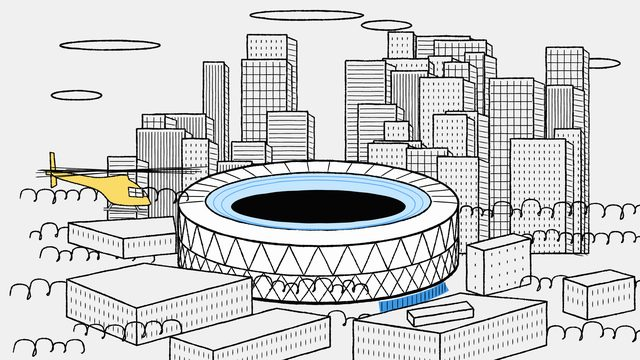
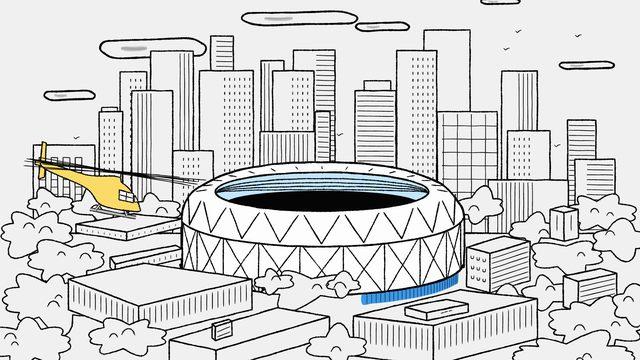
wip: 문서·썸네일, 경기장 아래 띠의 칸 수

diff --git a/index.html b/index.html
@@ -19,7 +19,7 @@
 </style>
 <h1>모션그래픽 레퍼런스 장면</h1>
 <p class="lead">장면 38개 · 카드에 마우스를 올리면 재생 · 클릭하면 재생 막대와 함께 열림 (스페이스 = 재생/정지, ←/→ = 한 프레임, 주소에 ?t=3.2 = 그 시각에서 열기)</p>
-<h2>IBM</h2><h3>한 화면 스팟(문구 제외) <code>spot</code></h3><div class="grid"><a class="card" href="IBM/scenes/spot/folder-meets-document.html"><div class="thumb"><img src="IBM/thumbs/spot-folder-meets-document.jpg" alt="" loading="lazy"></div><b>folder-meets-document</b><span>1:30.1–1:41.7 · 11.625s</span><p>미러볼 아래 다리 달린 파란 폴더가 풍선을 차자 화면이 옆으로 밀려 서류가 드러나고, 둘이 따로 춤추다 다가가 손을 잡으면 하트 풍선이 떠오른다.</p></a><a class="card" href="IBM/scenes/spot/tandem-riders-join.html"><div class="thumb"><img src="IBM/thumbs/spot-tandem-riders-join.jpg" alt="" loading="lazy"></div><b>tandem-riders-join</b><span>1:45.1–1:56.8 · 11.75s</span><p>혼자 달리던 자전거에 한 명씩 끼어들 때마다 자전거가 한 칸씩 길어져 5인승 탠덤이 되고, 마지막에 다 같이 손을 놓고 몸을 젖히며 모자 하나가 뒤로 날아간다.</p></a><a class="card" href="IBM/scenes/spot/dark-eyes-reveal.html"><div class="thumb"><img src="IBM/thumbs/spot-dark-eyes-reveal.jpg" alt="" loading="lazy"></div><b>dark-eyes-reveal</b><span>2:00.1–2:11.7 · 11.625s</span><p>검은 화면에 초록 눈 한 쌍이 떠서 좌우를 살피고 깜빡이다가, 눈이 작아지는 순간 밝은 화면으로 컷하면 그 눈은 건물 창가에서 쌍안경을 든 사람이었다.</p></a></div><h3>선화 설정 샷 <code>establish</code></h3><div class="grid"><a class="card" href="IBM/scenes/establish/city-stadium-flyin.html"><div class="thumb"><img src="IBM/thumbs/establish-city-stadium-flyin.jpg" alt="" loading="lazy"></div><b>city-stadium-flyin</b><span>0:00.0–0:01.9 · 1.917s</span><p>화면을 가득 채운 흑백 선화 도시 한가운데 경기장이 있고, 노란 헬리콥터 한 대가 왼쪽에서 크게 휘어 들어와 경기장 옆에 멈춰 뜬다.</p></a></div><h3>클로즈업 인서트와 휩 전환 <code>insert</code></h3><div class="grid"><a class="card" href="IBM/scenes/insert/mesh-eyes-whip.html"><div class="thumb"><img src="IBM/thumbs/insert-mesh-eyes-whip.jpg" alt="" loading="lazy"></div><b>mesh-eyes-whip</b><span>0:06.5–0:08.8 · 2.292s</span><p>마스크 철망 너머로 화면을 가득 채운 두 눈이 노려보다 눈썹을 내리고 고개를 기울이며 다가오고, 스피드라인 휩이 화면을 쓸고 지나가면 맞은편 사람의 긴장한 눈이 나온다: 눈썹이 걱정스럽게 치켜 올라가고 땀방울 하나가 길게 자라며 흘러내린다.</p></a></div><h3>엔드카드(문구·로고 제외) <code>endcard</code></h3><div class="grid"><a class="card" href="IBM/scenes/endcard/flyby-dot-settle.html"><div class="thumb"><img src="IBM/thumbs/endcard-flyby-dot-settle.jpg" alt="" loading="lazy"></div><b>flyby-dot-settle</b><span>0:26.6–0:30.1 · 3.458s</span><p>하드 컷으로 들어온 파란 분필 스미어가 살짝 밀려와 멈추는 사이 큰 날벌레가 화면 앞을 가로질러 멀어지고, 작은 날벌레가 다시 날아와 화면 가운데 위쪽에 내려앉아 멈춘 뒤 빈 무대로 컷한다.</p></a></div><h3>창작: 설명 영상용 은유 <code>metaphor</code></h3><div class="grid"><a class="card" href="IBM/scenes/metaphor/bars-rise-climber.html"><div class="thumb"><img src="IBM/thumbs/metaphor-bars-rise-climber.jpg" alt="" loading="lazy"></div><b>bars-rise-climber</b><span>창작 · 7s</span><p>바닥에서 막대가 하나씩 솟을 때마다 작은 사람이 그 위로 뛰어올라 계단처럼 다섯 칸을 오르고, 가장 높은 파란 막대 꼭대기에 깃발을 꽂고 &quot;다 왔다!&quot; 한다.</p></a><a class="card" href="IBM/scenes/metaphor/bridge-plank-cross.html"><div class="thumb"><img src="IBM/thumbs/metaphor-bridge-plank-cross.jpg" alt="" loading="lazy"></div><b>bridge-plank-cross</b><span>창작 · 9s</span><p>걸어오던 사람이 끊긴 틈 앞에서 휘청 멈춰 아래를 내려다보는데, 건너편에서 널빤지를 멘 사람이 와서 틈에 걸쳐 놓자 그 위를 건너가 손을 마주치며 &quot;고마워!&quot; 한다.</p></a><a class="card" href="IBM/scenes/metaphor/dominoes-chain-stop.html"><div class="thumb"><img src="IBM/thumbs/metaphor-dominoes-chain-stop.jpg" alt="" loading="lazy"></div><b>dominoes-chain-stop</b><span>창작 · 5s</span><p>왼쪽에서 온 손가락이 첫 도미노를 튕기자 줄줄이 넘어가다가, 위에서 내려온 손가락이 파란 도미노 하나를 눌러 잡는 순간 연쇄가 거기서 멈춘다.</p></a><a class="card" href="IBM/scenes/metaphor/flashlight-finds-file.html"><div class="thumb"><img src="IBM/thumbs/metaphor-flashlight-finds-file.jpg" alt="" loading="lazy"></div><b>flashlight-finds-file</b><span>창작 · 7.5s</span><p>캄캄한 화면에 눈 한 쌍만 깜빡이고, 손전등 빛의 원뿔이 위아래로 훑다가 상자 뒤에 숨은 서류에 멈추면 화면이 한 번에 밝아지며 &quot;찾았다!&quot;, 서류가 다리로 걸어 나와 손을 흔든다.</p></a><a class="card" href="IBM/scenes/metaphor/parcels-board-conveyor.html"><div class="thumb"><img src="IBM/thumbs/metaphor-parcels-board-conveyor.jpg" alt="" loading="lazy"></div><b>parcels-board-conveyor</b><span>창작 · 8s</span><p>다리 달린 상자들이 줄지어 걸어와 하나씩 컨베이어에 뛰어오르면 다리를 접고 실려 가고, 검사대를 지날 때마다 도장이 내려와 초록 체크가 찍힌다.</p></a></div><h3>창작: 인물 동작 스터디 <code>acting</code></h3><div class="grid"><a class="card" href="IBM/scenes/acting/axe-windup-smear.html"><div class="thumb"><img src="IBM/thumbs/acting-axe-windup-smear.jpg" alt="" loading="lazy"></div><b>axe-windup-smear</b><span>창작 · 6s</span><p>도끼를 어깨에 걸친 사람이 머리 위로 크게 들어 올려 한참 버티다가, 스미어 한 장으로 내리쳐 통나무를 둘로 쪼개고 &quot;됐다.&quot; 하고 선다.</p></a><a class="card" href="IBM/scenes/acting/lift-heavy-box.html"><div class="thumb"><img src="IBM/thumbs/acting-lift-heavy-box.jpg" alt="" loading="lazy"></div><b>lift-heavy-box</b><span>창작 · 8s</span><p>큰 상자를 끌어안고 용을 써 보지만 꿈쩍도 않자 한숨 쉬고 다시 자세를 잡아, 한 번에 들어 올려 세 걸음 휘청이며 옮겨 놓고 &quot;휴.&quot; 한다.</p></a><a class="card" href="IBM/scenes/acting/walk-cycle-bag.html"><div class="thumb"><img src="IBM/thumbs/acting-walk-cycle-bag.jpg" alt="" loading="lazy"></div><b>walk-cycle-bag</b><span>창작 · 8s</span><p>헤드폰을 쓰고 긴 가방을 멘 사람이 컵을 들고 복도를 걸어가다 노란 문 앞에서 멈춰 한 모금 마신다.</p></a></div><h3>창작: 일상 개그 비네트 <code>vignette</code></h3><div class="grid"><a class="card" href="IBM/scenes/vignette/balloons-lift-chair.html"><div class="thumb"><img src="IBM/thumbs/vignette-balloons-lift-chair.jpg" alt="" loading="lazy"></div><b>balloons-lift-chair</b><span>창작 · 8s</span><p>고양이가 자는 의자에 화면 밖에서 뻗어 온 손이 풍선을 하나씩 묶고, 넷째 풍선에서 의자가 바닥을 떠나 떠오르자 고양이가 눈을 뜨고 &quot;야옹?&quot; 했다가 도로 잔다.</p></a><a class="card" href="IBM/scenes/vignette/trick-candle-relight.html"><div class="thumb"><img src="IBM/thumbs/vignette-trick-candle-relight.jpg" alt="" loading="lazy"></div><b>trick-candle-relight</b><span>창작 · 7s</span><p>아이가 케이크의 촛불을 훅 불어 끄고 뿌듯해하는데 불이 하나씩 도로 켜지고, 더 크게 숨을 들이켜 다시 불어 꺼도 이번엔 한꺼번에 켜져서 &quot;어?&quot; 한다.</p></a></div><h3>창작: 설정 샷·휩·인서트 변주 <code>variation</code></h3><div class="grid"><a class="card" href="IBM/scenes/variation/hall-whip-button.html"><div class="thumb"><img src="IBM/thumbs/variation-hall-whip-button.jpg" alt="" loading="lazy"></div><b>hall-whip-button</b><span>창작 · 6.5s</span><p>흑백 선화로 빽빽하게 그린 복도 안쪽으로 연보라 종이비행기 하나가 날아 들어가고, 스피드라인 휩이 화면을 쓸면 큰 버튼 앞에서 망설이던 손가락이 꾹 눌러 불이 켜진다.</p></a><a class="card" href="IBM/scenes/variation/hose-wipe-endcard.html"><div class="thumb"><img src="IBM/thumbs/variation-hose-wipe-endcard.jpg" alt="" loading="lazy"></div><b>hose-wipe-endcard</b><span>창작 · 6s</span><p>호스를 잡고 버틴 사람 손에서 물줄기가 터져 나와 점점 퍼지더니 화면을 통째로 덮고, 그대로 하드 컷으로 엔드카드가 되어 파란 분필 스미어와 마무리 한 줄이 밀려와 멈추고 남은 물방울이 떨어진다.</p></a></div><h3>창작: 주식·투자 <code>market</code></h3><div class="grid"><a class="card" href="IBM/scenes/market/chart-rollercoaster-rider.html"><div class="thumb"><img src="IBM/thumbs/market-chart-rollercoaster-rider.jpg" alt="" loading="lazy"></div><b>chart-rollercoaster-rider</b><span>창작 · 7.5s</span><p>차트 선을 레일 삼은 노란 카트가 딸깍딸깍 느리게 꼭대기까지 올라가 한참 멈췄다가, 한 장에 바닥까지 곤두박질치고 남은 힘으로 작은 언덕을 넘어 서자 탄 사람이 &quot;…내려 주세요.&quot; 한다.</p></a><a class="card" href="IBM/scenes/market/monitor-candles-breakout.html"><div class="thumb"><img src="IBM/thumbs/market-monitor-candles-breakout.jpg" alt="" loading="lazy"></div><b>monitor-candles-breakout</b><span>창작 · 6s</span><p>화면을 가득 채운 모니터에 캔들이 하나씩 그려지며 저항선 아래에서 오르내리다가, 잠깐 멈춘 뒤 긴 파란 양봉 하나가 선을 뚫고 솟고 커서가 그 봉을 짚는다.</p></a><a class="card" href="IBM/scenes/market/street-rush-hour.html"><div class="thumb"><img src="IBM/thumbs/market-street-rush-hour.jpg" alt="" loading="lazy"></div><b>street-rush-hour</b><span>창작 · 7s</span><p>기둥 늘어선 거래소 건물과 고층 빌딩 선화 앞 인도를 사람들이 양쪽으로 바삐 지나가고 노란 택시가 가로지르는데, 연보라 옷 한 사람만 휴대폰을 보고 멈춰 서서 &quot;올랐다!&quot; 하고는 다시 인파에 섞인다.</p></a><a class="card" href="IBM/scenes/market/trading-desk-row.html"><div class="thumb"><img src="IBM/thumbs/market-trading-desk-row.jpg" alt="" loading="lazy"></div><b>trading-desk-row</b><span>창작 · 7.5s</span><p>시세판 아래 책상 세 개에 나란히 앉아 한 명은 타자를 치고 한 명은 통화하고 한 명은 늘어져 있다가, 시세판이 왼쪽부터 차례로 파란 화살표로 넘어가자 가운데 사람이 벌떡 일어나 &quot;매수!&quot; 하고 셋 다 자판에 달려든다.</p></a><a class="card" href="IBM/scenes/market/watched-chart-drops.html"><div class="thumb"><img src="IBM/thumbs/market-watched-chart-drops.jpg" alt="" loading="lazy"></div><b>watched-chart-drops</b><span>창작 · 9s</span><p>책상에 앉은 사람이 모니터를 노려보면 차트가 내려가고, 포기하고 뒤로 기대 눈을 감으면 오르고, 실눈을 뜰 때마다 다시 꺾이더니 두 손으로 눈을 가리자 화면 위로 치솟아 &quot;안 봐야 오르네.&quot; 한다.</p></a></div><h2>pstack</h2><h3>노트 손그림 스틱맨 <code>sketch</code></h3><div class="grid"><a class="card" href="pstack/scenes/sketch/stack-tags-pile.html"><div class="thumb"><img src="pstack/thumbs/sketch-stack-tags-pile.jpg" alt="" loading="lazy"></div><b>stack-tags-pile</b><span>1:30.0–1:40.0 · 10s</span><p>빨간 &quot;pstack&quot; 태그가 실에 끌려 들어오고 스틱맨이 다가가자, 비슷하게 생긴 회색 &quot;stack&quot; 태그들이 쏟아져 그것을 묻고 카메라가 물러나며 공책 제본이 드러난다.</p></a><a class="card" href="pstack/scenes/sketch/harness-horse-cart.html"><div class="thumb"><img src="pstack/thumbs/sketch-harness-horse-cart.jpg" alt="" loading="lazy"></div><b>harness-horse-cart</b><span>2:03.0–2:15.0 · 12s</span><p>말이 끄는 수레에 하네스를 그렸다 지웠다 다시 그리며, 하네스가 말을 수레에 붙잡아 두는 장치임을 보여 준다.</p></a><a class="card" href="pstack/scenes/sketch/gstack-org-chart.html"><div class="thumb"><img src="pstack/thumbs/sketch-gstack-org-chart.jpg" alt="" loading="lazy"></div><b>gstack-org-chart</b><span>2:52.3–3:02.3 · 10s</span><p>카드 다섯 장으로 위계가 그려지고, 이어서 AI가 모자로 표시된 역할들을 맡는다.</p></a><a class="card" href="pstack/scenes/sketch/thirty-thousand-words.html"><div class="thumb"><img src="pstack/thumbs/sketch-thirty-thousand-words.jpg" alt="" loading="lazy"></div><b>thirty-thousand-words</b><span>4:47.0–4:59.0 · 12s</span><p>흩어진 종이가 손글씨 단어 수 아래 한 묶음으로 모여 빨간 표지가 씌워진 뒤, 제목과 책이 왼쪽 위 작은 꼬리표로 줄어들며 책상 장면이 화면을 채운다: 코드 줄, 재생 버튼, 버그가 있는 큰 모니터와 그 옆에 명찰을 단 안경 쓴 선배.</p></a><a class="card" href="pstack/scenes/sketch/zero-to-one-toolbox.html"><div class="thumb"><img src="pstack/thumbs/sketch-zero-to-one-toolbox.jpg" alt="" loading="lazy"></div><b>zero-to-one-toolbox</b><span>7:58.7–8:07.0 · 8.33s</span><p>0과 1을 표시한 팻말 사이로 pstack 도구함이 휴대폰 체크리스트 쪽으로 움직이며, 작동하는 하나를 여럿으로 늘린다.</p></a><a class="card" href="pstack/scenes/sketch/hypothesis-note.html"><div class="thumb"><img src="pstack/thumbs/sketch-hypothesis-note.jpg" alt="" loading="lazy"></div><b>hypothesis-note</b><span>12:00.7–12:08.3 · 7.66s</span><p>테이프로 붙인 버그 수정 메모가 가설과 수정을 구분하고, 로봇이 라벨 붙은 꾸러미를 살핀다.</p></a><a class="card" href="pstack/scenes/sketch/balance-scale.html"><div class="thumb"><img src="pstack/thumbs/sketch-balance-scale.jpg" alt="" loading="lazy"></div><b>balance-scale</b><span>18:40.0–18:54.0 · 14s</span><p>클립보드를 든 로봇이 동전 상자 옆에 서 있고, 인용 메모(30분 대 1시간) 아래 알람 시계 둘이 &quot;without pstack&quot;과 &quot;pstack&quot;을 비교한다.</p></a></div><h3>펠트 코르크보드 <code>felt</code></h3><div class="grid"><a class="card" href="pstack/scenes/felt/corkboard-intro.html"><div class="thumb"><img src="pstack/thumbs/felt-corkboard-intro.jpg" alt="" loading="lazy"></div><b>corkboard-intro</b><span>0:00.0–0:07.2 · 7.2s</span><p>코르크보드에 꽂힌 초상 사진 주위로 종이 카드, 조회수 띠, 휴대폰을 든 인물이 들어오고, 빨간 실이 카드들을 사진에 잇는다.</p></a><a class="card" href="pstack/scenes/felt/profile-name-tags.html"><div class="thumb"><img src="pstack/thumbs/felt-profile-name-tags.jpg" alt="" loading="lazy"></div><b>profile-name-tags</b><span>0:28.5–0:42.5 · 14s</span><p>꽂힌 초상 사진에 빨간 실을 따라 이름표와 핸들 태그가 붙고, 옆에 감자가 튀어나와 점선 경력 길을 따라 펠트 배지를 하나씩 밟으며 뛰어간 뒤, 카메라가 마지막 팀 라벨로 다가간다.</p></a><a class="card" href="pstack/scenes/felt/hanging-sign-robot.html"><div class="thumb"><img src="pstack/thumbs/felt-hanging-sign-robot.jpg" alt="" loading="lazy"></div><b>hanging-sign-robot</b><span>16:32.2–16:38.3 · 6.1s</span><p>나무 바닥에 선 파란 잉크 선 로봇 위로, 레일의 집게에 매달린 금색 나무 팻말 &quot;No is an acceptable answer.&quot;가 걸려 있다.</p></a><a class="card" href="pstack/scenes/felt/recap-corkboard.html"><div class="thumb"><img src="pstack/thumbs/felt-recap-corkboard.jpg" alt="" loading="lazy"></div><b>recap-corkboard</b><span>23:17.7–23:29.7 · 12s</span><p>왕관 쓴 감자와 초상 사진이 있는 보드에 빈 종이가 튀어나와 끈으로 묶인 SKILL.md 꾸러미가 되고 pstack 태그가 붙는다.</p></a></div><h3>책상·청사진 세트 <code>set</code></h3><div class="grid"><a class="card" href="pstack/scenes/set/desk-phone-pen-route.html"><div class="thumb"><img src="pstack/thumbs/set-desk-phone-pen-route.jpg" alt="" loading="lazy"></div><b>desk-phone-pen-route</b><span>2:32.5–2:41.5 · 9s</span><p>책상 위 체크리스트가 빈 휴대폰에서 완성된 휴대폰으로 가는 경로가 되는데, 먼저 빨간 계획선으로 그려지고 이어서 태그 달린 만년필이 잉크로 덧그린다.</p></a><a class="card" href="pstack/scenes/set/desk-winding-path.html"><div class="thumb"><img src="pstack/thumbs/set-desk-winding-path.jpg" alt="" loading="lazy"></div><b>desk-winding-path</b><span>15:02.0–15:07.8 · 5.8s</span><p>체크리스트 휴대폰 둘이 구불구불한 경로로 이어지고, 경로는 파란 윗옷의 작은 인물이 밟는 번호 붙은 디딤돌이 된다.</p></a><a class="card" href="pstack/scenes/set/blueprint-floors.html"><div class="thumb"><img src="pstack/thumbs/set-blueprint-floors.jpg" alt="" loading="lazy"></div><b>blueprint-floors</b><span>21:55.0–22:08.5 · 13.5s</span><p>파란 기둥 둘 사이에 데님 펠트 층으로 된 건물 단면이 다섯 겹의 안전장치를 보여 주고, 층마다 둥근 메달, 고정폭 글꼴 이름판, 손글씨 한국어 설명이 붙는다.</p></a><a class="card" href="pstack/scenes/set/megaphone-machine.html"><div class="thumb"><img src="pstack/thumbs/set-megaphone-machine.jpg" alt="" loading="lazy"></div><b>megaphone-machine</b><span>22:53.0–23:05.0 · 12s</span><p>깔때기, 놋쇠 톱니 셋, 놋쇠 확성기가 달린 슬레이트 블루 펠트 기계가 매달린 Slack·Sentry 상자에서 버그 리포트를 받아 검증된 리포트를 내보낸다.</p></a></div>
+<h2>IBM</h2><h3>한 화면 스팟(문구 제외) <code>spot</code></h3><div class="grid"><a class="card" href="IBM/scenes/spot/folder-meets-document.html"><div class="thumb"><img src="IBM/thumbs/spot-folder-meets-document.jpg" alt="" loading="lazy"></div><b>folder-meets-document</b><span>1:30.1–1:41.7 · 11.625s</span><p>미러볼 아래 다리 달린 파란 폴더가 풍선을 차자 화면이 옆으로 밀려 서류가 드러나고, 둘이 따로 춤추다 다가가 손을 잡으면 하트 풍선이 떠오른다.</p></a><a class="card" href="IBM/scenes/spot/tandem-riders-join.html"><div class="thumb"><img src="IBM/thumbs/spot-tandem-riders-join.jpg" alt="" loading="lazy"></div><b>tandem-riders-join</b><span>1:45.1–1:56.8 · 11.75s</span><p>혼자 달리던 자전거에 한 명씩 끼어들 때마다 자전거가 한 칸씩 길어져 5인승 탠덤이 되고, 마지막에 다 같이 손을 놓고 몸을 젖히며 모자 하나가 뒤로 날아간다.</p></a><a class="card" href="IBM/scenes/spot/dark-eyes-reveal.html"><div class="thumb"><img src="IBM/thumbs/spot-dark-eyes-reveal.jpg" alt="" loading="lazy"></div><b>dark-eyes-reveal</b><span>2:00.1–2:11.7 · 11.625s</span><p>검은 화면에 초록 눈 한 쌍이 떠서 좌우를 살피고 깜빡이다가, 눈이 작아지는 순간 밝은 화면으로 컷하면 그 눈은 건물 창가에서 쌍안경을 든 사람이었다.</p></a></div><h3>선화 설정 샷 <code>establish</code></h3><div class="grid"><a class="card" href="IBM/scenes/establish/city-stadium-flyin.html"><div class="thumb"><img src="IBM/thumbs/establish-city-stadium-flyin.jpg" alt="" loading="lazy"></div><b>city-stadium-flyin</b><span>0:00.0–0:01.9 · 1.917s</span><p>화면을 가득 채운 흑백 선화 도시 한가운데 경기장이 있고, 노란 헬리콥터 한 대가 오른쪽 아래에서 렌즈 앞을 스치듯 들어와 꼬리를 치켜들고 돌아선 뒤 경기장 쪽으로 멀어진다.</p></a></div><h3>클로즈업 인서트와 휩 전환 <code>insert</code></h3><div class="grid"><a class="card" href="IBM/scenes/insert/mesh-eyes-whip.html"><div class="thumb"><img src="IBM/thumbs/insert-mesh-eyes-whip.jpg" alt="" loading="lazy"></div><b>mesh-eyes-whip</b><span>0:06.5–0:08.8 · 2.292s</span><p>마스크 철망 너머로 화면을 가득 채운 두 눈이 노려보다 눈썹을 내리고 고개를 기울이며 다가오고, 스피드라인 휩이 화면을 쓸고 지나가면 맞은편 사람의 긴장한 눈이 나온다: 눈썹이 걱정스럽게 치켜 올라가고 땀방울 하나가 길게 자라며 흘러내린다.</p></a></div><h3>엔드카드(문구·로고 제외) <code>endcard</code></h3><div class="grid"><a class="card" href="IBM/scenes/endcard/flyby-dot-settle.html"><div class="thumb"><img src="IBM/thumbs/endcard-flyby-dot-settle.jpg" alt="" loading="lazy"></div><b>flyby-dot-settle</b><span>0:26.6–0:30.1 · 3.458s</span><p>하드 컷으로 들어온 파란 분필 스미어가 살짝 밀려와 멈추는 사이 큰 날벌레가 화면 앞을 가로질러 멀어지고, 작은 날벌레가 다시 날아와 화면 가운데 위쪽에 내려앉아 멈춘 뒤 빈 무대로 컷한다.</p></a></div><h3>창작: 설명 영상용 은유 <code>metaphor</code></h3><div class="grid"><a class="card" href="IBM/scenes/metaphor/bars-rise-climber.html"><div class="thumb"><img src="IBM/thumbs/metaphor-bars-rise-climber.jpg" alt="" loading="lazy"></div><b>bars-rise-climber</b><span>창작 · 7s</span><p>바닥에서 막대가 하나씩 솟을 때마다 작은 사람이 그 위로 뛰어올라 계단처럼 다섯 칸을 오르고, 가장 높은 파란 막대 꼭대기에 깃발을 꽂고 &quot;다 왔다!&quot; 한다.</p></a><a class="card" href="IBM/scenes/metaphor/bridge-plank-cross.html"><div class="thumb"><img src="IBM/thumbs/metaphor-bridge-plank-cross.jpg" alt="" loading="lazy"></div><b>bridge-plank-cross</b><span>창작 · 9s</span><p>걸어오던 사람이 끊긴 틈 앞에서 휘청 멈춰 아래를 내려다보는데, 건너편에서 널빤지를 멘 사람이 와서 틈에 걸쳐 놓자 그 위를 건너가 손을 마주치며 &quot;고마워!&quot; 한다.</p></a><a class="card" href="IBM/scenes/metaphor/dominoes-chain-stop.html"><div class="thumb"><img src="IBM/thumbs/metaphor-dominoes-chain-stop.jpg" alt="" loading="lazy"></div><b>dominoes-chain-stop</b><span>창작 · 5s</span><p>왼쪽에서 온 손가락이 첫 도미노를 튕기자 줄줄이 넘어가다가, 위에서 내려온 손가락이 파란 도미노 하나를 눌러 잡는 순간 연쇄가 거기서 멈춘다.</p></a><a class="card" href="IBM/scenes/metaphor/flashlight-finds-file.html"><div class="thumb"><img src="IBM/thumbs/metaphor-flashlight-finds-file.jpg" alt="" loading="lazy"></div><b>flashlight-finds-file</b><span>창작 · 7.5s</span><p>캄캄한 화면에 눈 한 쌍만 깜빡이고, 손전등 빛의 원뿔이 위아래로 훑다가 상자 뒤에 숨은 서류에 멈추면 화면이 한 번에 밝아지며 &quot;찾았다!&quot;, 서류가 다리로 걸어 나와 손을 흔든다.</p></a><a class="card" href="IBM/scenes/metaphor/parcels-board-conveyor.html"><div class="thumb"><img src="IBM/thumbs/metaphor-parcels-board-conveyor.jpg" alt="" loading="lazy"></div><b>parcels-board-conveyor</b><span>창작 · 8s</span><p>다리 달린 상자들이 줄지어 걸어와 하나씩 컨베이어에 뛰어오르면 다리를 접고 실려 가고, 검사대를 지날 때마다 도장이 내려와 초록 체크가 찍힌다.</p></a></div><h3>창작: 인물 동작 스터디 <code>acting</code></h3><div class="grid"><a class="card" href="IBM/scenes/acting/axe-windup-smear.html"><div class="thumb"><img src="IBM/thumbs/acting-axe-windup-smear.jpg" alt="" loading="lazy"></div><b>axe-windup-smear</b><span>창작 · 6s</span><p>도끼를 어깨에 걸친 사람이 머리 위로 크게 들어 올려 한참 버티다가, 스미어 한 장으로 내리쳐 통나무를 둘로 쪼개고 &quot;됐다.&quot; 하고 선다.</p></a><a class="card" href="IBM/scenes/acting/lift-heavy-box.html"><div class="thumb"><img src="IBM/thumbs/acting-lift-heavy-box.jpg" alt="" loading="lazy"></div><b>lift-heavy-box</b><span>창작 · 8s</span><p>큰 상자를 끌어안고 용을 써 보지만 꿈쩍도 않자 한숨 쉬고 다시 자세를 잡아, 한 번에 들어 올려 세 걸음 휘청이며 옮겨 놓고 &quot;휴.&quot; 한다.</p></a><a class="card" href="IBM/scenes/acting/walk-cycle-bag.html"><div class="thumb"><img src="IBM/thumbs/acting-walk-cycle-bag.jpg" alt="" loading="lazy"></div><b>walk-cycle-bag</b><span>창작 · 8s</span><p>헤드폰을 쓰고 긴 가방을 멘 사람이 컵을 들고 복도를 걸어가다 노란 문 앞에서 멈춰 한 모금 마신다.</p></a></div><h3>창작: 일상 개그 비네트 <code>vignette</code></h3><div class="grid"><a class="card" href="IBM/scenes/vignette/balloons-lift-chair.html"><div class="thumb"><img src="IBM/thumbs/vignette-balloons-lift-chair.jpg" alt="" loading="lazy"></div><b>balloons-lift-chair</b><span>창작 · 8s</span><p>고양이가 자는 의자에 화면 밖에서 뻗어 온 손이 풍선을 하나씩 묶고, 넷째 풍선에서 의자가 바닥을 떠나 떠오르자 고양이가 눈을 뜨고 &quot;야옹?&quot; 했다가 도로 잔다.</p></a><a class="card" href="IBM/scenes/vignette/trick-candle-relight.html"><div class="thumb"><img src="IBM/thumbs/vignette-trick-candle-relight.jpg" alt="" loading="lazy"></div><b>trick-candle-relight</b><span>창작 · 7s</span><p>아이가 케이크의 촛불을 훅 불어 끄고 뿌듯해하는데 불이 하나씩 도로 켜지고, 더 크게 숨을 들이켜 다시 불어 꺼도 이번엔 한꺼번에 켜져서 &quot;어?&quot; 한다.</p></a></div><h3>창작: 설정 샷·휩·인서트 변주 <code>variation</code></h3><div class="grid"><a class="card" href="IBM/scenes/variation/hall-whip-button.html"><div class="thumb"><img src="IBM/thumbs/variation-hall-whip-button.jpg" alt="" loading="lazy"></div><b>hall-whip-button</b><span>창작 · 6.5s</span><p>흑백 선화로 빽빽하게 그린 복도 안쪽으로 연보라 종이비행기 하나가 날아 들어가고, 스피드라인 휩이 화면을 쓸면 큰 버튼 앞에서 망설이던 손가락이 꾹 눌러 불이 켜진다.</p></a><a class="card" href="IBM/scenes/variation/hose-wipe-endcard.html"><div class="thumb"><img src="IBM/thumbs/variation-hose-wipe-endcard.jpg" alt="" loading="lazy"></div><b>hose-wipe-endcard</b><span>창작 · 6s</span><p>호스를 잡고 버틴 사람 손에서 물줄기가 터져 나와 점점 퍼지더니 화면을 통째로 덮고, 그대로 하드 컷으로 엔드카드가 되어 파란 분필 스미어와 마무리 한 줄이 밀려와 멈추고 남은 물방울이 떨어진다.</p></a></div><h3>창작: 주식·투자 <code>market</code></h3><div class="grid"><a class="card" href="IBM/scenes/market/chart-rollercoaster-rider.html"><div class="thumb"><img src="IBM/thumbs/market-chart-rollercoaster-rider.jpg" alt="" loading="lazy"></div><b>chart-rollercoaster-rider</b><span>창작 · 7.5s</span><p>차트 선을 레일 삼은 노란 카트가 딸깍딸깍 느리게 꼭대기까지 올라가 한참 멈췄다가, 한 장에 바닥까지 곤두박질치고 남은 힘으로 작은 언덕을 넘어 서자 탄 사람이 &quot;…내려 주세요.&quot; 한다.</p></a><a class="card" href="IBM/scenes/market/monitor-candles-breakout.html"><div class="thumb"><img src="IBM/thumbs/market-monitor-candles-breakout.jpg" alt="" loading="lazy"></div><b>monitor-candles-breakout</b><span>창작 · 6s</span><p>화면을 가득 채운 모니터에 캔들이 하나씩 그려지며 저항선 아래에서 오르내리다가, 잠깐 멈춘 뒤 긴 파란 양봉 하나가 선을 뚫고 솟고 커서가 그 봉을 짚는다.</p></a><a class="card" href="IBM/scenes/market/street-rush-hour.html"><div class="thumb"><img src="IBM/thumbs/market-street-rush-hour.jpg" alt="" loading="lazy"></div><b>street-rush-hour</b><span>창작 · 7s</span><p>기둥 늘어선 거래소 건물과 고층 빌딩 선화 앞 인도를 사람들이 양쪽으로 바삐 지나가고 노란 택시가 가로지르는데, 연보라 옷 한 사람만 휴대폰을 보고 멈춰 서서 &quot;올랐다!&quot; 하고는 다시 인파에 섞인다.</p></a><a class="card" href="IBM/scenes/market/trading-desk-row.html"><div class="thumb"><img src="IBM/thumbs/market-trading-desk-row.jpg" alt="" loading="lazy"></div><b>trading-desk-row</b><span>창작 · 7.5s</span><p>시세판 아래 책상 세 개에 나란히 앉아 한 명은 타자를 치고 한 명은 통화하고 한 명은 늘어져 있다가, 시세판이 왼쪽부터 차례로 파란 화살표로 넘어가자 가운데 사람이 벌떡 일어나 &quot;매수!&quot; 하고 셋 다 자판에 달려든다.</p></a><a class="card" href="IBM/scenes/market/watched-chart-drops.html"><div class="thumb"><img src="IBM/thumbs/market-watched-chart-drops.jpg" alt="" loading="lazy"></div><b>watched-chart-drops</b><span>창작 · 9s</span><p>책상에 앉은 사람이 모니터를 노려보면 차트가 내려가고, 포기하고 뒤로 기대 눈을 감으면 오르고, 실눈을 뜰 때마다 다시 꺾이더니 두 손으로 눈을 가리자 화면 위로 치솟아 &quot;안 봐야 오르네.&quot; 한다.</p></a></div><h2>pstack</h2><h3>노트 손그림 스틱맨 <code>sketch</code></h3><div class="grid"><a class="card" href="pstack/scenes/sketch/stack-tags-pile.html"><div class="thumb"><img src="pstack/thumbs/sketch-stack-tags-pile.jpg" alt="" loading="lazy"></div><b>stack-tags-pile</b><span>1:30.0–1:40.0 · 10s</span><p>빨간 &quot;pstack&quot; 태그가 실에 끌려 들어오고 스틱맨이 다가가자, 비슷하게 생긴 회색 &quot;stack&quot; 태그들이 쏟아져 그것을 묻고 카메라가 물러나며 공책 제본이 드러난다.</p></a><a class="card" href="pstack/scenes/sketch/harness-horse-cart.html"><div class="thumb"><img src="pstack/thumbs/sketch-harness-horse-cart.jpg" alt="" loading="lazy"></div><b>harness-horse-cart</b><span>2:03.0–2:15.0 · 12s</span><p>말이 끄는 수레에 하네스를 그렸다 지웠다 다시 그리며, 하네스가 말을 수레에 붙잡아 두는 장치임을 보여 준다.</p></a><a class="card" href="pstack/scenes/sketch/gstack-org-chart.html"><div class="thumb"><img src="pstack/thumbs/sketch-gstack-org-chart.jpg" alt="" loading="lazy"></div><b>gstack-org-chart</b><span>2:52.3–3:02.3 · 10s</span><p>카드 다섯 장으로 위계가 그려지고, 이어서 AI가 모자로 표시된 역할들을 맡는다.</p></a><a class="card" href="pstack/scenes/sketch/thirty-thousand-words.html"><div class="thumb"><img src="pstack/thumbs/sketch-thirty-thousand-words.jpg" alt="" loading="lazy"></div><b>thirty-thousand-words</b><span>4:47.0–4:59.0 · 12s</span><p>흩어진 종이가 손글씨 단어 수 아래 한 묶음으로 모여 빨간 표지가 씌워진 뒤, 제목과 책이 왼쪽 위 작은 꼬리표로 줄어들며 책상 장면이 화면을 채운다: 코드 줄, 재생 버튼, 버그가 있는 큰 모니터와 그 옆에 명찰을 단 안경 쓴 선배.</p></a><a class="card" href="pstack/scenes/sketch/zero-to-one-toolbox.html"><div class="thumb"><img src="pstack/thumbs/sketch-zero-to-one-toolbox.jpg" alt="" loading="lazy"></div><b>zero-to-one-toolbox</b><span>7:58.7–8:07.0 · 8.33s</span><p>0과 1을 표시한 팻말 사이로 pstack 도구함이 휴대폰 체크리스트 쪽으로 움직이며, 작동하는 하나를 여럿으로 늘린다.</p></a><a class="card" href="pstack/scenes/sketch/hypothesis-note.html"><div class="thumb"><img src="pstack/thumbs/sketch-hypothesis-note.jpg" alt="" loading="lazy"></div><b>hypothesis-note</b><span>12:00.7–12:08.3 · 7.66s</span><p>테이프로 붙인 버그 수정 메모가 가설과 수정을 구분하고, 로봇이 라벨 붙은 꾸러미를 살핀다.</p></a><a class="card" href="pstack/scenes/sketch/balance-scale.html"><div class="thumb"><img src="pstack/thumbs/sketch-balance-scale.jpg" alt="" loading="lazy"></div><b>balance-scale</b><span>18:40.0–18:54.0 · 14s</span><p>클립보드를 든 로봇이 동전 상자 옆에 서 있고, 인용 메모(30분 대 1시간) 아래 알람 시계 둘이 &quot;without pstack&quot;과 &quot;pstack&quot;을 비교한다.</p></a></div><h3>펠트 코르크보드 <code>felt</code></h3><div class="grid"><a class="card" href="pstack/scenes/felt/corkboard-intro.html"><div class="thumb"><img src="pstack/thumbs/felt-corkboard-intro.jpg" alt="" loading="lazy"></div><b>corkboard-intro</b><span>0:00.0–0:07.2 · 7.2s</span><p>코르크보드에 꽂힌 초상 사진 주위로 종이 카드, 조회수 띠, 휴대폰을 든 인물이 들어오고, 빨간 실이 카드들을 사진에 잇는다.</p></a><a class="card" href="pstack/scenes/felt/profile-name-tags.html"><div class="thumb"><img src="pstack/thumbs/felt-profile-name-tags.jpg" alt="" loading="lazy"></div><b>profile-name-tags</b><span>0:28.5–0:42.5 · 14s</span><p>꽂힌 초상 사진에 빨간 실을 따라 이름표와 핸들 태그가 붙고, 옆에 감자가 튀어나와 점선 경력 길을 따라 펠트 배지를 하나씩 밟으며 뛰어간 뒤, 카메라가 마지막 팀 라벨로 다가간다.</p></a><a class="card" href="pstack/scenes/felt/hanging-sign-robot.html"><div class="thumb"><img src="pstack/thumbs/felt-hanging-sign-robot.jpg" alt="" loading="lazy"></div><b>hanging-sign-robot</b><span>16:32.2–16:38.3 · 6.1s</span><p>나무 바닥에 선 파란 잉크 선 로봇 위로, 레일의 집게에 매달린 금색 나무 팻말 &quot;No is an acceptable answer.&quot;가 걸려 있다.</p></a><a class="card" href="pstack/scenes/felt/recap-corkboard.html"><div class="thumb"><img src="pstack/thumbs/felt-recap-corkboard.jpg" alt="" loading="lazy"></div><b>recap-corkboard</b><span>23:17.7–23:29.7 · 12s</span><p>왕관 쓴 감자와 초상 사진이 있는 보드에 빈 종이가 튀어나와 끈으로 묶인 SKILL.md 꾸러미가 되고 pstack 태그가 붙는다.</p></a></div><h3>책상·청사진 세트 <code>set</code></h3><div class="grid"><a class="card" href="pstack/scenes/set/desk-phone-pen-route.html"><div class="thumb"><img src="pstack/thumbs/set-desk-phone-pen-route.jpg" alt="" loading="lazy"></div><b>desk-phone-pen-route</b><span>2:32.5–2:41.5 · 9s</span><p>책상 위 체크리스트가 빈 휴대폰에서 완성된 휴대폰으로 가는 경로가 되는데, 먼저 빨간 계획선으로 그려지고 이어서 태그 달린 만년필이 잉크로 덧그린다.</p></a><a class="card" href="pstack/scenes/set/desk-winding-path.html"><div class="thumb"><img src="pstack/thumbs/set-desk-winding-path.jpg" alt="" loading="lazy"></div><b>desk-winding-path</b><span>15:02.0–15:07.8 · 5.8s</span><p>체크리스트 휴대폰 둘이 구불구불한 경로로 이어지고, 경로는 파란 윗옷의 작은 인물이 밟는 번호 붙은 디딤돌이 된다.</p></a><a class="card" href="pstack/scenes/set/blueprint-floors.html"><div class="thumb"><img src="pstack/thumbs/set-blueprint-floors.jpg" alt="" loading="lazy"></div><b>blueprint-floors</b><span>21:55.0–22:08.5 · 13.5s</span><p>파란 기둥 둘 사이에 데님 펠트 층으로 된 건물 단면이 다섯 겹의 안전장치를 보여 주고, 층마다 둥근 메달, 고정폭 글꼴 이름판, 손글씨 한국어 설명이 붙는다.</p></a><a class="card" href="pstack/scenes/set/megaphone-machine.html"><div class="thumb"><img src="pstack/thumbs/set-megaphone-machine.jpg" alt="" loading="lazy"></div><b>megaphone-machine</b><span>22:53.0–23:05.0 · 12s</span><p>깔때기, 놋쇠 톱니 셋, 놋쇠 확성기가 달린 슬레이트 블루 펠트 기계가 매달린 Slack·Sentry 상자에서 버그 리포트를 받아 검증된 리포트를 내보낸다.</p></a></div>
 <script>
   const live = new Map();   // iframe window -> iframe element, for matching the scene's "ready" message
   addEventListener('message', (e) => {

diff --git a/IBM/scenes/establish/city-stadium-flyin.html b/IBM/scenes/establish/city-stadium-flyin.html
@@ -9,7 +9,7 @@
 <script>
 /* 화면을 가득 채운 흑백 선화 도시 한가운데 경기장이 있고, 노란 헬리콥터 한 대가 오른쪽 아래에서 렌즈 앞을 스치듯 들어와 꼬리를 치켜들고 돌아선 뒤 경기장 쪽으로 멀어진다. 전달하는 생각: 이제 벌어질 일의 장소를 한 장으로 알린다.
    Motion notes: 1.9 s. The drawing never moves and is far denser than any other family: line widths 1.5-4.5 px mixed, windows and trusses as texture, almost no fills, and every gap between buildings stuffed with cauliflower foliage (clump). Colour only in two places, the yellow craft and the pale blue seating, plus one bright strip at the stadium's foot.
-   The city is read off the reference frame on a 100 px grid: the stadium (a drum with a rounded shoulder, a band of nine V trusses over a band of crosses between posts, an opening whose far stand shows four ring lines above the dark bowl), 22 towers with their widths, heights and which third of each carries window marks (the reference leaves much of every tower white), the foreground blocks, clouds and birds. Foliage is placed by hand as ellipses and generated inside them, so its bumps are not the reference's.
+   The city is read off the reference frame on a 100 px grid: the stadium (a drum with a rounded shoulder, a band of nine V trusses over a band of nine crosses between posts, an opening whose far stand shows four ring lines above the dark bowl), 22 towers with their widths, heights and which third of each carries window marks (the reference leaves much of every tower white), the foreground blocks, clouds and birds. Foliage is placed by hand as ellipses and generated inside them, so its bumps are not the reference's.
    The craft is the one moving thing, on twos (CRAFT, 19 drawings from frame 8): nothing for the first 0.33 s, then three drawings larger than the frame as it crosses in front of the lens (the first stretched 1.3x as a smear), two standing on its nose, and from then on it never hovers: every drawing is smaller and more level than the last as it flies off toward the stadium, drifting left then right. The rotor is a fan of straight strokes re-rolled on every drawing. The craft's painted eye and lettering are left out. */
 const { lerp, rng } = MG;
 const C = IB.C;
@@ -66,7 +66,7 @@ function stadium(ctx) {
   IB.ink(ctx, arc(790, 95, 0.02, Math.PI - 0.02), { w: 4.5, seed: 303 });
   // lower band: posts at equal angles round the drum, a cross in every bay
   const mid = (a) => [cx + Math.cos(a) * RX, 650 + Math.sin(a) * 90], foot = (a) => [cx + Math.cos(a) * RX, 790 + Math.sin(a) * 95];
-  const N = 11, at = (i) => Math.PI * (0.06 + (0.88 * i) / N);
+  const N = 9, at = (i) => Math.PI * (0.06 + (0.88 * i) / N);
   for (let i = 0; i <= N; i++) { IB.ink(ctx, [mid(at(i)), foot(at(i))], { w: 2.6, seed: 330 + i, smooth: false }); if (i < N) { IB.ink(ctx, [mid(at(i) + 0.02), foot(at(i + 1) - 0.02)], { w: 2.3, seed: 345 + i, smooth: false }); IB.ink(ctx, [mid(at(i + 1) - 0.02), foot(at(i) + 0.02)], { w: 2.3, seed: 360 + i, smooth: false }); } }
   IB.ink(ctx, arc(650, 90, 0.03, Math.PI - 0.03), { w: 4, seed: 301 });
   // upper band: V trusses hanging from under the lip
@@ -105,7 +105,7 @@ function block(ctx, q, h, seed, tex = 'v') {
 function ground(ctx, layer) {
   const C1 = (list) => list.forEach(([x, y, rx, ry], i) => clump(ctx, x, y, rx, ry, 500 + layer * 40 + i));
   if (layer === 0) {   // behind the stadium: the feet of the towers
-    C1([[150, 612, 70, 26], [300, 620, 90, 30], [460, 628, 80, 30], [250, 432, 34, 12], [1022, 412, 22, 12], [1440, 620, 70, 34], [1600, 690, 70, 30], [1800, 640, 110, 40], [1860, 720, 80, 40]]);
+    C1([[150, 612, 70, 26], [300, 620, 90, 30], [460, 628, 80, 30], [1440, 620, 70, 34], [1600, 690, 70, 30], [1800, 640, 110, 40], [1860, 720, 80, 40]]);
     block(ctx, [[1650, 628], [1692, 618], [1735, 628], [1692, 638]], 86, 590, 'v');   // the small round tower, drawn as a box
     return;
   }

diff --git a/IBM/README.md b/IBM/README.md
@@ -38,4 +38,4 @@ desk.js  앉은 포즈(IB.sit), 사무실 의자·책상·정면 모니터(IB.ch
 
 - **출처:** 원본은 IBM의 광고 스팟이다. 영상 파일과 거기서 뽑은 프레임은 저장소에 넣지 않았다(`.gitignore`). 모든 그림은 코드로 그린 것이다.
 - **바꾼 것:** 문구는 전부 뺐다. 광고 카피, 태그라인, 로고, 화면 속 간판과 포스터 글자를 그리지 않는다. 카피가 왼쪽을 차지하던 스팟 장면은 그림이 있는 영역만 16:9로 잘라 화면에 채웠다(영역은 각 장면의 `CROP`, 좌표는 원본 기준 그대로). 그래서 `tools/capture.py --compare`는 이 세 장면에서 `--ref-crop`에 장면의 `CROP`(x,y,w,h)을 주어야 크기와 위치가 맞는다: 주지 않으면 잘리지 않은 원본 프레임이 잘린 렌더 위에 놓인다. 엔드카드에 내려앉는 벌은 줄무늬 없는 날벌레로, 헬리콥터 옆면의 브랜드 표식은 빈 면으로 바꿨다. 카피의 글꼴 수치는 kit의 `IB.TYPE`에 남아 있고, 글꼴은 원본의 IBM Plex Sans 대신 공용 Pretendard 300을 쓰게 되어 있다.
-- **충실도:** 구도, 크기, 컷과 비트의 시각, 카피와 카메라의 움직임은 원본 프레임에서 잰 값이다. 그림은 다르다: 원본은 프레임마다 손으로 그린 셀 애니메이션이고, 여기서는 원본 확대 크롭에서 읽은 형태를 닫힌 도형과 관절 몇 개짜리 리그로 옮겼다. 장면별로 보면 `endcard/flyby-dot-settle`은 확대해도 원본과 가깝다. `spot/folder-meets-document`는 원본을 프레임 단위로 뽑아 그림 수(배우마다 약 50장)와 그림의 종류(폴더의 뒤돌기와 벌어짐, 종이의 휨과 메모지, 굽는 다리, 손가락 있는 손)를 맞췄지만 원본의 그림을 한 장씩 옮긴 것은 아니다. 폴더가 뒤도는 순간의 공중 그림 한 장과 미러볼의 회전은 원본에 없는 것을 같은 문법으로 넣었고, 폴더의 스텝 그루브, 서류의 빠른 회전, 서류가 폴더를 지켜보다 런지에 몸을 젖히는 대목은 원본에도 있는 연기를 다른 그림으로 다시 그렸다(원본의 서류는 이때 좌우가 뒤집힌 그림으로 돌아서지만 여기서는 4분의 3쯤만 몸을 튼다). `spot/tandem-riders-join`의 인물은 원본에서 읽은 관절 위치에 옷과 옆얼굴을 입힌 리그다. 다섯 사람의 차림과 머리 모양, 그림마다의 자세(기울기, 안장에서 뜨는 높이, 팔, 고개, 눈과 입, 머리카락의 솟음)는 원본의 합류와 피날레를 따라 넣었지만 옷 주름과 손가락, 원본의 그림 한 장 한 장의 선은 없다. 합류할 때 새 사람이 원본에서는 앞사람 뒤에서 갈라져 나오듯 나타나는데 여기서는 위에서 떨어져 앉고, 모자를 잃은 사람이 마지막에 남들처럼 팔을 드는 것은 원본에 없다. `spot/dark-eyes-reveal`은 관찰자와 고양이의 그림을 원본의 4배 확대 격자에서 옮겼고, 둘의 연기(렌즈 속 눈의 움직임과 고개 돌리기, 쌍안경을 내리는 넉 장, 고양이가 창턱 아래로 사라졌다 자기 쌍안경을 들고 올라오는 개그)를 원본의 프레임에 맞춰 넣었다. 고양이의 귀 까딱임과 꼬리 흔들기는 원본이 2프레임마다 조금씩 다시 그리는 것을 몇 장으로 줄였고(창턱을 떠나는 그림도 원본 다섯 장을 넉 장으로), 화분의 잎은 시드로 뿌린 것이라 원본의 배치와 다르며 흔들림도 세 장을 돌리는 것이다. 고개를 돌릴 때 원본은 머리와 쌍안경을 돌려 그린 새 그림이고 여기서는 옮기고 오른쪽 경통의 옆면을 덧그린 것이다. 끝에 날아드는 벌은 줄무늬 없는 날벌레다. `insert/mesh-eyes-whip`의 두 얼굴은 원본의 눈·눈썹·코·주근깨의 형태를 100px 격자에서 읽어 옮겼고, 찌푸렸다 돌아 나오는 고개, 가늘게 떴다 커지는 눈, 걱정스럽게 올라가는 눈썹, 자라는 땀방울을 원본이 그림을 바꾸는 프레임에 맞췄다. 표정의 중간 그림은 원본처럼 새로 그린 것이 아니라 눈썹과 눈꺼풀을 옮긴 것이다. `establish/city-stadium-flyin`은 경기장, 전경 건물, 나무 줄, 헬리콥터가 원본의 배치와 형태를 따르지만 뒤쪽 고층 건물은 시드로 생성한 것이라 원본과 다르고, 헬리콥터 옆면의 브랜드 표식과 글자는 뺐다. 인물의 전신 연기 샷(카탈로그의 `act`)과 카피 카드(`copy`)는 장면으로 두지 않았다.
+- **충실도:** 구도, 크기, 컷과 비트의 시각, 카피와 카메라의 움직임은 원본 프레임에서 잰 값이다. 그림은 다르다: 원본은 프레임마다 손으로 그린 셀 애니메이션이고, 여기서는 원본 확대 크롭에서 읽은 형태를 닫힌 도형과 관절 몇 개짜리 리그로 옮겼다. 장면별로 보면 `endcard/flyby-dot-settle`은 확대해도 원본과 가깝다. `spot/folder-meets-document`는 원본을 프레임 단위로 뽑아 그림 수(배우마다 약 50장)와 그림의 종류(폴더의 뒤돌기와 벌어짐, 종이의 휨과 메모지, 굽는 다리, 손가락 있는 손)를 맞췄지만 원본의 그림을 한 장씩 옮긴 것은 아니다. 폴더가 뒤도는 순간의 공중 그림 한 장과 미러볼의 회전은 원본에 없는 것을 같은 문법으로 넣었고, 폴더의 스텝 그루브, 서류의 빠른 회전, 서류가 폴더를 지켜보다 런지에 몸을 젖히는 대목은 원본에도 있는 연기를 다른 그림으로 다시 그렸다(원본의 서류는 이때 좌우가 뒤집힌 그림으로 돌아서지만 여기서는 4분의 3쯤만 몸을 튼다). `spot/tandem-riders-join`의 인물은 원본에서 읽은 관절 위치에 옷과 옆얼굴을 입힌 리그다. 다섯 사람의 차림과 머리 모양, 그림마다의 자세(기울기, 안장에서 뜨는 높이, 팔, 고개, 눈과 입, 머리카락의 솟음)는 원본의 합류와 피날레를 따라 넣었지만 옷 주름과 손가락, 원본의 그림 한 장 한 장의 선은 없다. 합류할 때 새 사람이 원본에서는 앞사람 뒤에서 갈라져 나오듯 나타나는데 여기서는 위에서 떨어져 앉고, 모자를 잃은 사람이 마지막에 남들처럼 팔을 드는 것은 원본에 없다. `spot/dark-eyes-reveal`은 관찰자와 고양이의 그림을 원본의 4배 확대 격자에서 옮겼고, 둘의 연기(렌즈 속 눈의 움직임과 고개 돌리기, 쌍안경을 내리는 넉 장, 고양이가 창턱 아래로 사라졌다 자기 쌍안경을 들고 올라오는 개그)를 원본의 프레임에 맞춰 넣었다. 고양이의 귀 까딱임과 꼬리 흔들기는 원본이 2프레임마다 조금씩 다시 그리는 것을 몇 장으로 줄였고(창턱을 떠나는 그림도 원본 다섯 장을 넉 장으로), 화분의 잎은 시드로 뿌린 것이라 원본의 배치와 다르며 흔들림도 세 장을 돌리는 것이다. 고개를 돌릴 때 원본은 머리와 쌍안경을 돌려 그린 새 그림이고 여기서는 옮기고 오른쪽 경통의 옆면을 덧그린 것이다. 끝에 날아드는 벌은 줄무늬 없는 날벌레다. `insert/mesh-eyes-whip`의 두 얼굴은 원본의 눈·눈썹·코·주근깨의 형태를 100px 격자에서 읽어 옮겼고, 찌푸렸다 돌아 나오는 고개, 가늘게 떴다 커지는 눈, 걱정스럽게 올라가는 눈썹, 자라는 땀방울을 원본이 그림을 바꾸는 프레임에 맞췄다. 표정의 중간 그림은 원본처럼 새로 그린 것이 아니라 눈썹과 눈꺼풀을 옮긴 것이다. `establish/city-stadium-flyin`은 경기장, 고층 건물 스물두 채의 위치·높이·창 무늬가 놓인 자리, 전경 건물, 구름과 새를 원본의 100px 격자에서 읽어 옮겼고, 헬리콥터는 그림 열아홉 장의 위치와 크기를 원본의 노란 면적에서 재서 놓았다(끝 프레임의 중심이 원본과 1px 차이). 건물 사이를 메운 나무는 손으로 놓은 타원 안에서 생성한 것이라 혹 하나하나는 원본과 다르고, 헬리콥터가 렌즈 앞을 지나는 첫 석 장은 원본처럼 그 각도로 새로 그린 그림이 아니라 같은 옆모습을 키우고 돌린 것이며, 옆면의 눈 그림과 글자는 뺐다. 인물의 전신 연기 샷(카탈로그의 `act`)과 카피 카드(`copy`)는 장면으로 두지 않았다.

diff --git a/IBM/STYLE.md b/IBM/STYLE.md
@@ -64,8 +64,8 @@
 
 30초 스팟의 첫 1.5~2.3초. 어디서 벌어지는 일인지 한 장으로 알린다.
 
-- **룩:** 화면을 가득 채운 흑백 선화(도시, 가게 정면, 집). 선은 1~6px를 섞어 쓰고, 창문·벽돌·나뭇잎 같은 잔무늬를 촘촘히 넣어 다른 계열보다 훨씬 빽빽하다. 면은 거의 칠하지 않고 색은 한두 군데만: 노란 탈것, 파란 관중석 띠, 노란 문.
-- **모션:** 그림은 멈춰 있고 색 있는 작은 것 하나만 가로질러 간다(헬리콥터, 달리는 사람, 벌). 들어오는 첫 프레임은 스미어다. 2편은 카메라가 1프레임 단위로 아주 천천히 민다.
+- **룩:** 화면을 가득 채운 흑백 선화(도시, 가게 정면, 집). 선은 1~6px를 섞어 쓰고, 창문·벽돌·나뭇잎 같은 잔무늬를 촘촘히 넣어 다른 계열보다 훨씬 빽빽하다. 빽빽해 보이지만 면을 다 채우지는 않는다: 건물마다 창 무늬는 폭의 3분의 1에서 3분의 2에만 있고 나머지는 흰 채로 두며, 건물 사이의 틈은 전부 몽글몽글한 나무 덩어리(크기가 고르지 않은 둥근 혹의 윤곽과 안쪽의 호 몇 개)로 메운다. 구름은 굵은 외곽선의 납작한 덩어리 안에 흑연 한 줄이다. 면은 거의 칠하지 않고 색은 한두 군데만: 노란 탈것, 파란 관중석 띠, 노란 문.
+- **모션:** 그림은 멈춰 있고 색 있는 작은 것 하나만 가로질러 간다(헬리콥터, 달리는 사람, 벌). 들어오는 첫 프레임은 스미어다. 2편은 카메라가 1프레임 단위로 아주 천천히 민다. 1편의 헬리콥터는 2프레임에 한 장씩 열아홉 장이고 한 번도 멈춰 뜨지 않는다: 화면보다 큰 석 장으로 렌즈 앞을 지나고, 두 장 동안 꼬리를 치켜들고 곤두섰다가, 그 뒤로는 장마다 조금씩 작아지고(1.48배에서 0.83배) 수평에 가까워지며(0.83rad에서 0.09rad) 왼쪽으로 60px 밀렸다 오른쪽으로 75px 돌아오면서 경기장 쪽으로 멀어진다. "자리 잡고 멈춘다"로 읽으면 마지막 1초가 죽는다.
 - **키트:** `kit/ink.js` (`IB.ink`)
 - **장면:** `scenes/establish/`
 
